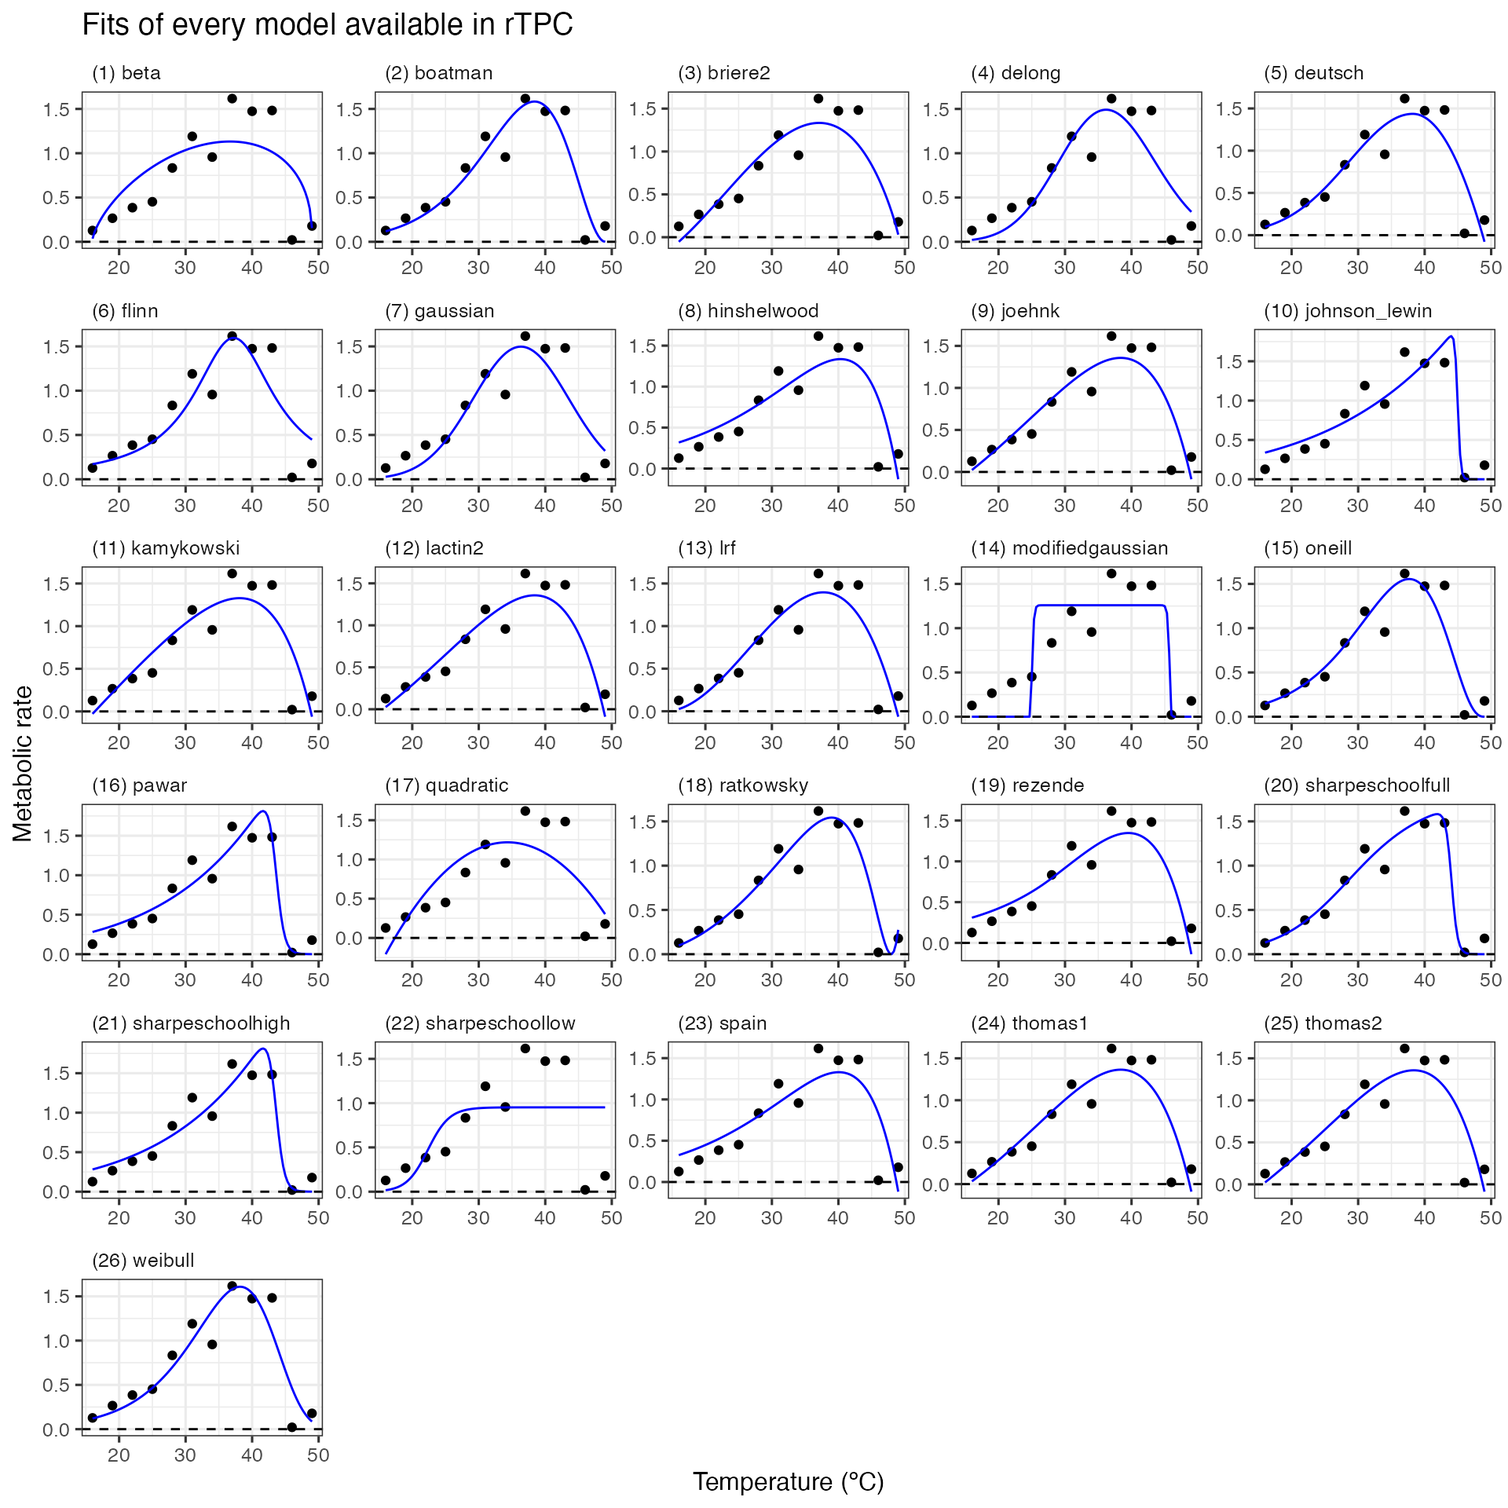
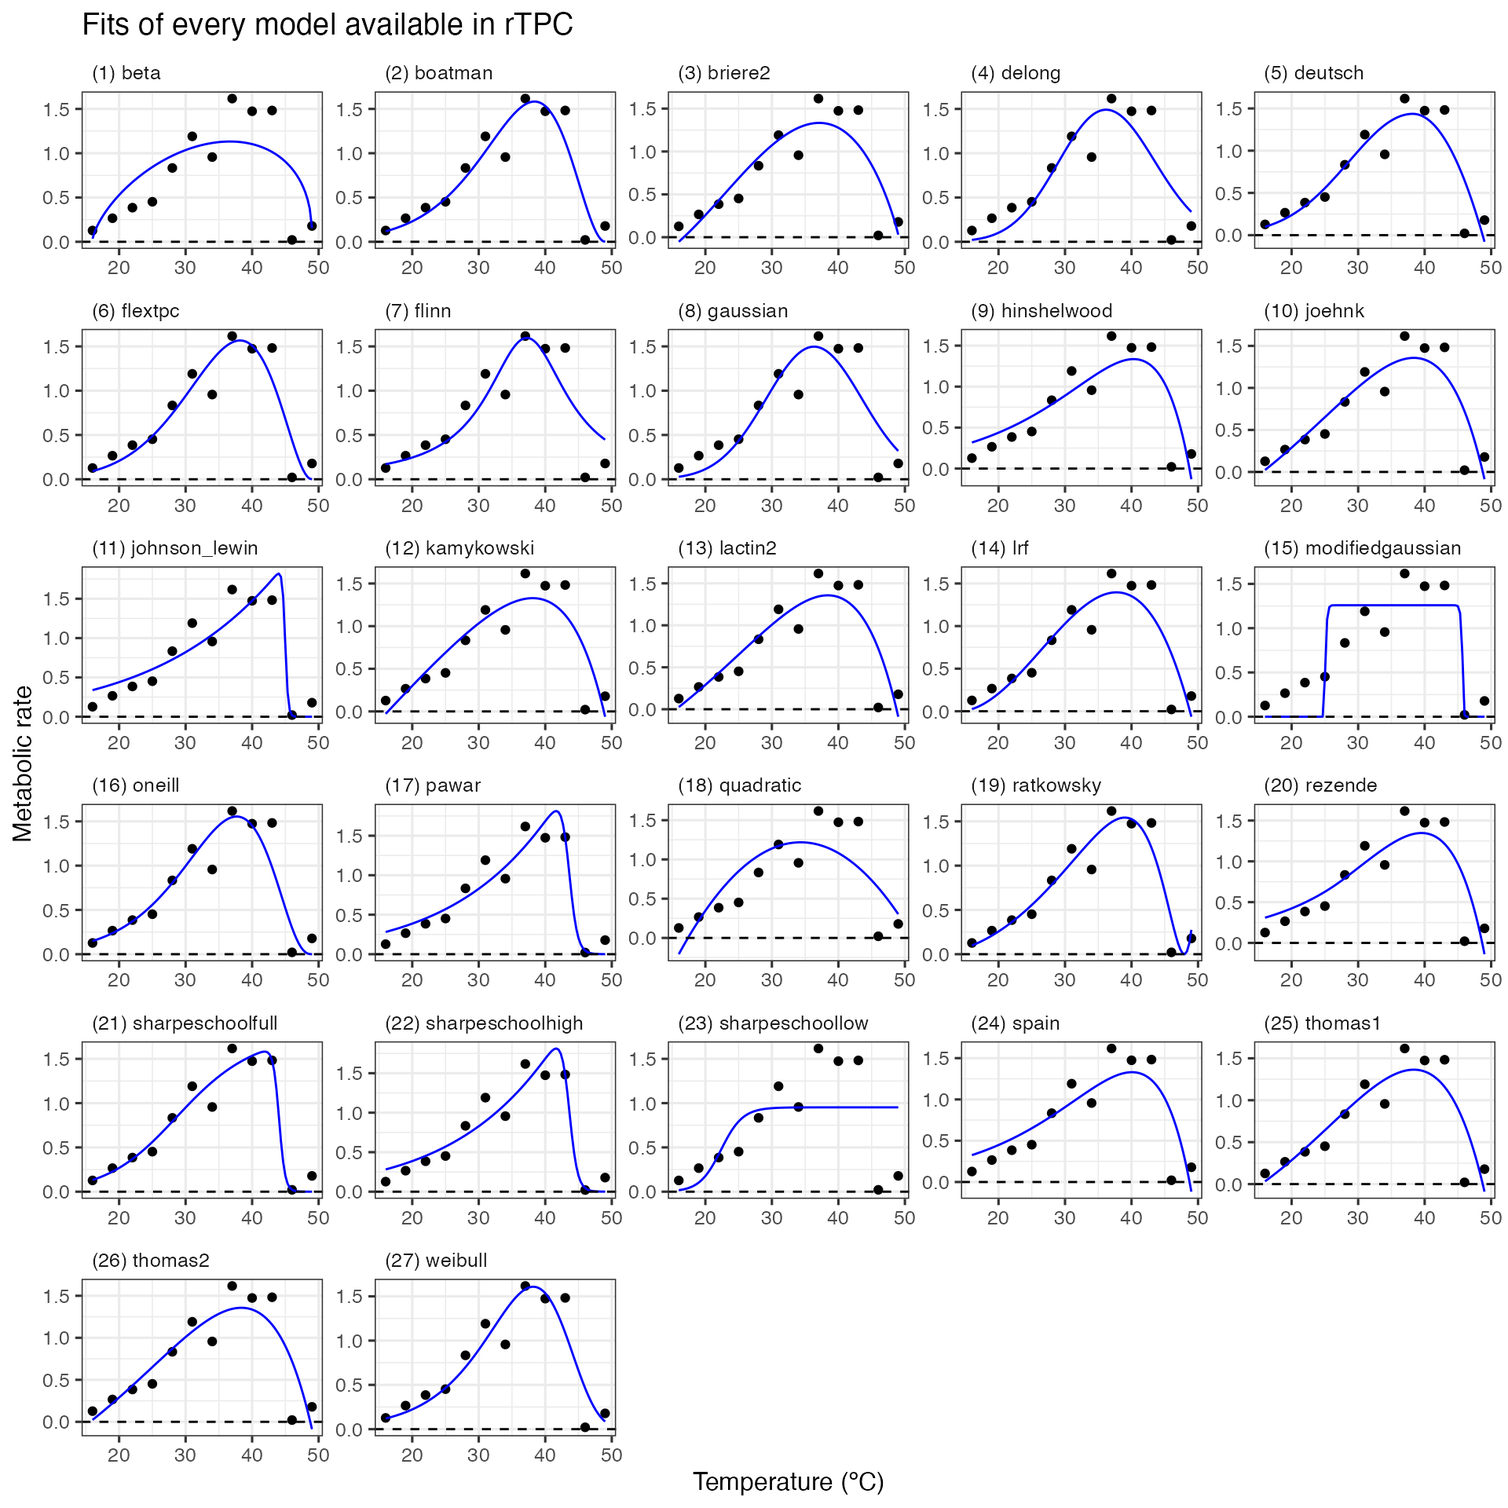
Update fitting many models vignette

diff --git a/docs/articles/fit_many_models.html b/docs/articles/fit_many_models.html
@@ -84,7 +84,7 @@
                         <h4 data-toc-skip class="author">Daniel
 Padfield</h4>
             
-            <h4 data-toc-skip class="date">2024-12-15</h4>
+            <h4 data-toc-skip class="date">2024-12-16</h4>
       
       <small class="dont-index">Source: <a href="https://github.com/padpadpadpad/rTPC/blob/HEAD/vignettes/fit_many_models.Rmd" class="external-link"><code>vignettes/fit_many_models.Rmd</code></a></small>
       <div class="d-none name"><code>fit_many_models.Rmd</code></div>
@@ -103,7 +103,7 @@ using rTPC, nls.multstart, and the tidyverse.<a class="anchor" aria-label="ancho
 </h2>
 <ul>
 <li>How many data points do you have for each curve? To fit all of the
-24 models in <strong>rTPC</strong>, there needs to be a minimum of 7
+29 models in <strong>rTPC</strong>, there needs to be a minimum of 7
 points per curve.</li>
 <li>If there are multiple individual curves to be fit, it makes sense to
 have your data in long format, where grouping variables (e.g. unique
@@ -129,14 +129,14 @@ parameter in their formulation.</li>
 <span>  <span class="va">string</span> <span class="op">=</span> <span class="fu"><a href="https://rdrr.io/r/base/paste.html" class="external-link">paste</a></span><span class="op">(</span><span class="st">'('</span>, <span class="fl">1</span><span class="op">:</span><span class="va">len</span>, <span class="st">') '</span>, <span class="va">string</span>, sep <span class="op">=</span> <span class="st">''</span><span class="op">)</span></span>
 <span>  <span class="kw"><a href="https://rdrr.io/r/base/function.html" class="external-link">return</a></span><span class="op">(</span><span class="va">string</span><span class="op">)</span></span>
 <span><span class="op">}</span></span></code></pre></div>
-<p>After searching the literature, <strong>rTPC</strong> contains 24
+<p>After searching the literature, <strong>rTPC</strong> contains 29
 different model formulations previously used. The <a href="rTPC.html">first vignette</a>, demonstrated how to easily fit a
-single model to a single curve, here we will fit all 24 model
+single model to a single curve, here we will fit all 29 model
 formulations.</p>
-<p><strong>DISCLAIMER Although we fit all 24 model formulations, this is
+<p><strong>DISCLAIMER Although we fit all 29 model formulations, this is
 to demonstrate how they fit and their general shape, we do not recommend
 doing model selection on 24 model formulations.</strong></p>
-<p>We can demonstrate the fitting procedure of the 24 model formulations
+<p>We can demonstrate the fitting procedure of the 29 model formulations
 by taking a single curve from the example dataset <strong>rTPC</strong>
 - a dataset of 60 TPCs of respiration and photosynthesis of the aquatic
 algae, <em>Chlorella vulgaris</em>. We can plot the data using
@@ -172,7 +172,25 @@ number of parameters, c(5, 5, 5) for 3 estimated parameters will yield
 <div class="sourceCode" id="cb3"><pre class="downlit sourceCode r">
 <code class="sourceCode R"><span><span class="co"># fit every model formulation in rTPC</span></span>
 <span><span class="va">d_fits</span> <span class="op">&lt;-</span> <span class="fu"><a href="https://tidyr.tidyverse.org/reference/nest.html" class="external-link">nest</a></span><span class="op">(</span><span class="va">d</span>, data <span class="op">=</span> <span class="fu"><a href="https://rdrr.io/r/base/c.html" class="external-link">c</a></span><span class="op">(</span><span class="va">temp</span>, <span class="va">rate</span><span class="op">)</span><span class="op">)</span> <span class="op"><a href="https://magrittr.tidyverse.org/reference/pipe.html" class="external-link">%&gt;%</a></span></span>
-<span>  <span class="fu"><a href="https://dplyr.tidyverse.org/reference/mutate.html" class="external-link">mutate</a></span><span class="op">(</span>beta <span class="op">=</span> <span class="fu"><a href="https://purrr.tidyverse.org/reference/map.html" class="external-link">map</a></span><span class="op">(</span><span class="va">data</span>, <span class="op">~</span><span class="fu"><a href="https://rdrr.io/pkg/nls.multstart/man/nls_multstart.html" class="external-link">nls_multstart</a></span><span class="op">(</span><span class="va">rate</span><span class="op">~</span><span class="fu"><a href="../reference/beta_2012.html">beta_2012</a></span><span class="op">(</span>temp <span class="op">=</span> <span class="va">temp</span>, <span class="va">a</span>, <span class="va">b</span>, <span class="va">c</span>, <span class="va">d</span>, <span class="va">e</span><span class="op">)</span>,</span>
+<span>  <span class="fu"><a href="https://dplyr.tidyverse.org/reference/mutate.html" class="external-link">mutate</a></span><span class="op">(</span>ashrafi1 <span class="op">=</span> <span class="fu"><a href="https://purrr.tidyverse.org/reference/map.html" class="external-link">map</a></span><span class="op">(</span><span class="va">data</span>, <span class="op">~</span><span class="fu"><a href="https://rdrr.io/pkg/nls.multstart/man/nls_multstart.html" class="external-link">nls_multstart</a></span><span class="op">(</span><span class="va">rate</span><span class="op">~</span><span class="fu"><a href="../reference/ashrafi1_2018.html">ashrafi1_2018</a></span><span class="op">(</span>temp <span class="op">=</span> <span class="va">temp</span>, <span class="va">a</span>, <span class="va">b</span>, <span class="va">c</span><span class="op">)</span>,</span>
+<span>                        data <span class="op">=</span> <span class="va">.x</span>,</span>
+<span>                        iter <span class="op">=</span> <span class="fu"><a href="https://rdrr.io/r/base/c.html" class="external-link">c</a></span><span class="op">(</span><span class="fl">6</span>,<span class="fl">6</span>,<span class="fl">6</span><span class="op">)</span>,</span>
+<span>                        start_lower <span class="op">=</span> <span class="fu"><a href="../reference/get_start_vals.html">get_start_vals</a></span><span class="op">(</span><span class="va">.x</span><span class="op">$</span><span class="va">temp</span>, <span class="va">.x</span><span class="op">$</span><span class="va">rate</span>, model_name <span class="op">=</span> <span class="st">'ashrafi1_2018'</span><span class="op">)</span> <span class="op">-</span> <span class="fl">10</span>,</span>
+<span>                        start_upper <span class="op">=</span> <span class="fu"><a href="../reference/get_start_vals.html">get_start_vals</a></span><span class="op">(</span><span class="va">.x</span><span class="op">$</span><span class="va">temp</span>, <span class="va">.x</span><span class="op">$</span><span class="va">rate</span>, model_name <span class="op">=</span> <span class="st">'ashrafi1_2018'</span><span class="op">)</span> <span class="op">+</span> <span class="fl">10</span>,</span>
+<span>                        lower <span class="op">=</span> <span class="fu"><a href="../reference/get_lower_lims.html">get_lower_lims</a></span><span class="op">(</span><span class="va">.x</span><span class="op">$</span><span class="va">temp</span>, <span class="va">.x</span><span class="op">$</span><span class="va">rate</span>, model_name <span class="op">=</span> <span class="st">'ashrafi1_2018'</span><span class="op">)</span>,</span>
+<span>                        upper <span class="op">=</span> <span class="fu"><a href="../reference/get_upper_lims.html">get_upper_lims</a></span><span class="op">(</span><span class="va">.x</span><span class="op">$</span><span class="va">temp</span>, <span class="va">.x</span><span class="op">$</span><span class="va">rate</span>, model_name <span class="op">=</span> <span class="st">'ashrafi1_2018'</span><span class="op">)</span>,</span>
+<span>                        supp_errors <span class="op">=</span> <span class="st">'Y'</span>,</span>
+<span>                        convergence_count <span class="op">=</span> <span class="cn">FALSE</span><span class="op">)</span><span class="op">)</span>,</span>
+<span>         atkin <span class="op">=</span> <span class="fu"><a href="https://purrr.tidyverse.org/reference/map.html" class="external-link">map</a></span><span class="op">(</span><span class="va">data</span>, <span class="op">~</span><span class="fu"><a href="https://rdrr.io/pkg/nls.multstart/man/nls_multstart.html" class="external-link">nls_multstart</a></span><span class="op">(</span><span class="va">rate</span><span class="op">~</span><span class="fu"><a href="../reference/atkin_2005.html">atkin_2005</a></span><span class="op">(</span>temp <span class="op">=</span> <span class="va">temp</span>, <span class="va">r0</span>, <span class="va">a</span>, <span class="va">b</span><span class="op">)</span>,</span>
+<span>                        data <span class="op">=</span> <span class="va">.x</span>,</span>
+<span>                        iter <span class="op">=</span> <span class="fu"><a href="https://rdrr.io/r/base/c.html" class="external-link">c</a></span><span class="op">(</span><span class="fl">6</span>,<span class="fl">6</span>,<span class="fl">6</span><span class="op">)</span>,</span>
+<span>                        start_lower <span class="op">=</span> <span class="fu"><a href="../reference/get_start_vals.html">get_start_vals</a></span><span class="op">(</span><span class="va">.x</span><span class="op">$</span><span class="va">temp</span>, <span class="va">.x</span><span class="op">$</span><span class="va">rate</span>, model_name <span class="op">=</span> <span class="st">'atkin_2005'</span><span class="op">)</span> <span class="op">-</span> <span class="fl">10</span>,</span>
+<span>                        start_upper <span class="op">=</span> <span class="fu"><a href="../reference/get_start_vals.html">get_start_vals</a></span><span class="op">(</span><span class="va">.x</span><span class="op">$</span><span class="va">temp</span>, <span class="va">.x</span><span class="op">$</span><span class="va">rate</span>, model_name <span class="op">=</span> <span class="st">'atkin_2005'</span><span class="op">)</span> <span class="op">+</span> <span class="fl">10</span>,</span>
+<span>                        lower <span class="op">=</span> <span class="fu"><a href="../reference/get_lower_lims.html">get_lower_lims</a></span><span class="op">(</span><span class="va">.x</span><span class="op">$</span><span class="va">temp</span>, <span class="va">.x</span><span class="op">$</span><span class="va">rate</span>, model_name <span class="op">=</span> <span class="st">'atkin_2005'</span><span class="op">)</span>,</span>
+<span>                        upper <span class="op">=</span> <span class="fu"><a href="../reference/get_upper_lims.html">get_upper_lims</a></span><span class="op">(</span><span class="va">.x</span><span class="op">$</span><span class="va">temp</span>, <span class="va">.x</span><span class="op">$</span><span class="va">rate</span>, model_name <span class="op">=</span> <span class="st">'atkin_2005'</span><span class="op">)</span>,</span>
+<span>                        supp_errors <span class="op">=</span> <span class="st">'Y'</span>,</span>
+<span>                        convergence_count <span class="op">=</span> <span class="cn">FALSE</span><span class="op">)</span><span class="op">)</span>,</span>
+<span>         beta <span class="op">=</span> <span class="fu"><a href="https://purrr.tidyverse.org/reference/map.html" class="external-link">map</a></span><span class="op">(</span><span class="va">data</span>, <span class="op">~</span><span class="fu"><a href="https://rdrr.io/pkg/nls.multstart/man/nls_multstart.html" class="external-link">nls_multstart</a></span><span class="op">(</span><span class="va">rate</span><span class="op">~</span><span class="fu"><a href="../reference/beta_2012.html">beta_2012</a></span><span class="op">(</span>temp <span class="op">=</span> <span class="va">temp</span>, <span class="va">a</span>, <span class="va">b</span>, <span class="va">c</span>, <span class="va">d</span>, <span class="va">e</span><span class="op">)</span>,</span>
 <span>                        data <span class="op">=</span> <span class="va">.x</span>,</span>
 <span>                        iter <span class="op">=</span> <span class="fu"><a href="https://rdrr.io/r/base/c.html" class="external-link">c</a></span><span class="op">(</span><span class="fl">6</span>,<span class="fl">6</span>,<span class="fl">6</span>,<span class="fl">6</span>,<span class="fl">6</span><span class="op">)</span>,</span>
 <span>                        start_lower <span class="op">=</span> <span class="fu"><a href="../reference/get_start_vals.html">get_start_vals</a></span><span class="op">(</span><span class="va">.x</span><span class="op">$</span><span class="va">temp</span>, <span class="va">.x</span><span class="op">$</span><span class="va">rate</span>, model_name <span class="op">=</span> <span class="st">'beta_2012'</span><span class="op">)</span> <span class="op">-</span> <span class="fl">10</span>,</span>
@@ -215,6 +233,15 @@ number of parameters, c(5, 5, 5) for 3 estimated parameters will yield
 <span>                        start_upper <span class="op">=</span> <span class="fu"><a href="../reference/get_start_vals.html">get_start_vals</a></span><span class="op">(</span><span class="va">.x</span><span class="op">$</span><span class="va">temp</span>, <span class="va">.x</span><span class="op">$</span><span class="va">rate</span>, model_name <span class="op">=</span> <span class="st">'deutsch_2008'</span><span class="op">)</span> <span class="op">+</span> <span class="fl">10</span>,</span>
 <span>                        lower <span class="op">=</span> <span class="fu"><a href="../reference/get_lower_lims.html">get_lower_lims</a></span><span class="op">(</span><span class="va">.x</span><span class="op">$</span><span class="va">temp</span>, <span class="va">.x</span><span class="op">$</span><span class="va">rate</span>, model_name <span class="op">=</span> <span class="st">'deutsch_2008'</span><span class="op">)</span>,</span>
 <span>                        upper <span class="op">=</span> <span class="fu"><a href="../reference/get_upper_lims.html">get_upper_lims</a></span><span class="op">(</span><span class="va">.x</span><span class="op">$</span><span class="va">temp</span>, <span class="va">.x</span><span class="op">$</span><span class="va">rate</span>, model_name <span class="op">=</span> <span class="st">'deutsch_2008'</span><span class="op">)</span>,</span>
+<span>                        supp_errors <span class="op">=</span> <span class="st">'Y'</span>,</span>
+<span>                        convergence_count <span class="op">=</span> <span class="cn">FALSE</span><span class="op">)</span><span class="op">)</span>,</span>
+<span>         flextpc <span class="op">=</span> <span class="fu"><a href="https://purrr.tidyverse.org/reference/map.html" class="external-link">map</a></span><span class="op">(</span><span class="va">data</span>, <span class="op">~</span><span class="fu"><a href="https://rdrr.io/pkg/nls.multstart/man/nls_multstart.html" class="external-link">nls_multstart</a></span><span class="op">(</span><span class="va">rate</span><span class="op">~</span><span class="fu"><a href="../reference/flextpc_2024.html">flextpc_2024</a></span><span class="op">(</span>temp <span class="op">=</span> <span class="va">temp</span>, <span class="va">tmin</span>, <span class="va">tmax</span>, <span class="va">rmax</span>, <span class="va">alpha</span>, <span class="va">beta</span><span class="op">)</span>,</span>
+<span>                        data <span class="op">=</span> <span class="va">.x</span>,</span>
+<span>                        iter <span class="op">=</span> <span class="fu"><a href="https://rdrr.io/r/base/c.html" class="external-link">c</a></span><span class="op">(</span><span class="fl">5</span>,<span class="fl">5</span>,<span class="fl">5</span>,<span class="fl">5</span>,<span class="fl">5</span><span class="op">)</span>,</span>
+<span>                        start_lower <span class="op">=</span> <span class="fu"><a href="../reference/get_start_vals.html">get_start_vals</a></span><span class="op">(</span><span class="va">.x</span><span class="op">$</span><span class="va">temp</span>, <span class="va">.x</span><span class="op">$</span><span class="va">rate</span>, model_name <span class="op">=</span> <span class="st">'flextpc_2024'</span><span class="op">)</span> <span class="op">-</span> <span class="fl">10</span>,</span>
+<span>                        start_upper <span class="op">=</span> <span class="fu"><a href="../reference/get_start_vals.html">get_start_vals</a></span><span class="op">(</span><span class="va">.x</span><span class="op">$</span><span class="va">temp</span>, <span class="va">.x</span><span class="op">$</span><span class="va">rate</span>, model_name <span class="op">=</span> <span class="st">'flextpc_2024'</span><span class="op">)</span> <span class="op">+</span> <span class="fl">10</span>,</span>
+<span>                        lower <span class="op">=</span> <span class="fu"><a href="../reference/get_lower_lims.html">get_lower_lims</a></span><span class="op">(</span><span class="va">.x</span><span class="op">$</span><span class="va">temp</span>, <span class="va">.x</span><span class="op">$</span><span class="va">rate</span>, model_name <span class="op">=</span> <span class="st">'flextpc_2024'</span><span class="op">)</span>,</span>
+<span>                        upper <span class="op">=</span> <span class="fu"><a href="../reference/get_upper_lims.html">get_upper_lims</a></span><span class="op">(</span><span class="va">.x</span><span class="op">$</span><span class="va">temp</span>, <span class="va">.x</span><span class="op">$</span><span class="va">rate</span>, model_name <span class="op">=</span> <span class="st">'flextpc_2024'</span><span class="op">)</span>,</span>
 <span>                        supp_errors <span class="op">=</span> <span class="st">'Y'</span>,</span>
 <span>                        convergence_count <span class="op">=</span> <span class="cn">FALSE</span><span class="op">)</span><span class="op">)</span>,</span>
 <span>         flinn <span class="op">=</span> <span class="fu"><a href="https://purrr.tidyverse.org/reference/map.html" class="external-link">map</a></span><span class="op">(</span><span class="va">data</span>, <span class="op">~</span><span class="fu"><a href="https://rdrr.io/pkg/nls.multstart/man/nls_multstart.html" class="external-link">nls_multstart</a></span><span class="op">(</span><span class="va">rate</span><span class="op">~</span><span class="fu"><a href="../reference/flinn_1991.html">flinn_1991</a></span><span class="op">(</span>temp <span class="op">=</span> <span class="va">temp</span>, <span class="va">a</span>, <span class="va">b</span>, <span class="va">c</span><span class="op">)</span>,</span>
@@ -421,8 +448,8 @@ of our models.</p>
 <span><span class="co">#&gt; $ process     <span style="color: #949494; font-style: italic;">&lt;chr&gt;</span> "acclimation"</span></span>
 <span><span class="co">#&gt; $ flux        <span style="color: #949494; font-style: italic;">&lt;chr&gt;</span> "respiration"</span></span>
 <span><span class="co">#&gt; $ data        <span style="color: #949494; font-style: italic;">&lt;list&gt;</span> [&lt;tbl_df[12 x 2]&gt;]</span></span>
-<span><span class="co">#&gt; $ beta        <span style="color: #949494; font-style: italic;">&lt;list&gt;</span> [function () , resid, function () , rhs, function () , for…</span></span>
-<span><span class="co">#&gt; $ boatman     <span style="color: #949494; font-style: italic;">&lt;list&gt;</span> [function () , resid, function () , rhs, function () , for…</span></span></code></pre></div>
+<span><span class="co">#&gt; $ ashrafi1    <span style="color: #949494; font-style: italic;">&lt;list&gt;</span> [function () , resid, function () , rhs, function () , for…</span></span>
+<span><span class="co">#&gt; $ atkin       <span style="color: #949494; font-style: italic;">&lt;list&gt;</span> [function () , resid, function () , rhs, function () , for…</span></span></code></pre></div>
 <p>Each column containing the model stores the actual model fit.</p>
 <div class="sourceCode" id="cb5"><pre class="downlit sourceCode r">
 <code class="sourceCode R"><span><span class="va">d_fits</span><span class="op">$</span><span class="va">beta</span><span class="op">[[</span><span class="fl">1</span><span class="op">]</span><span class="op">]</span></span>
